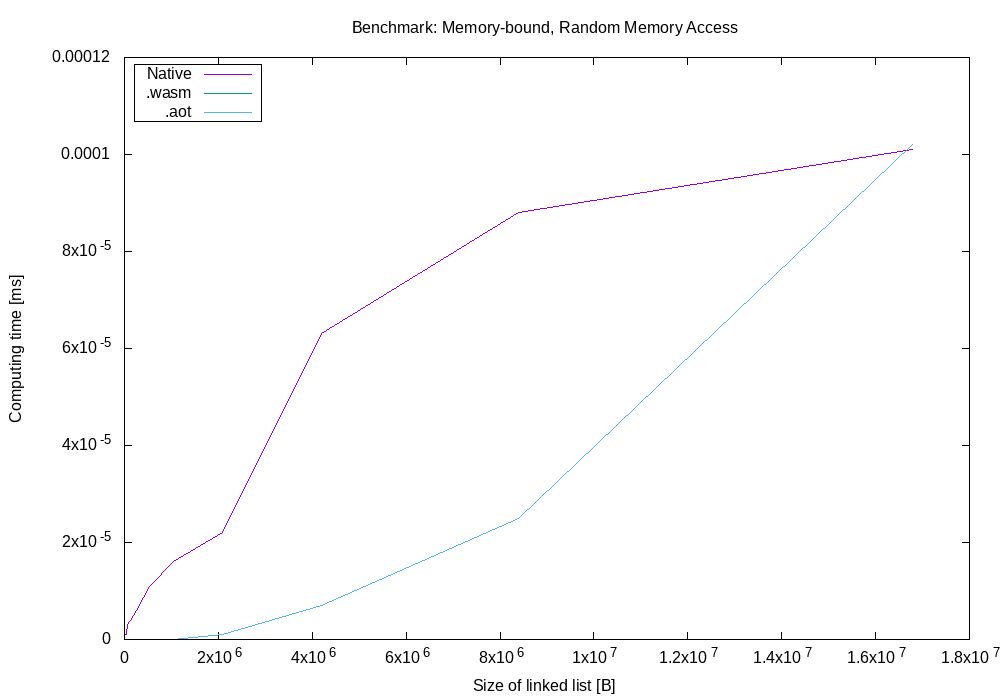
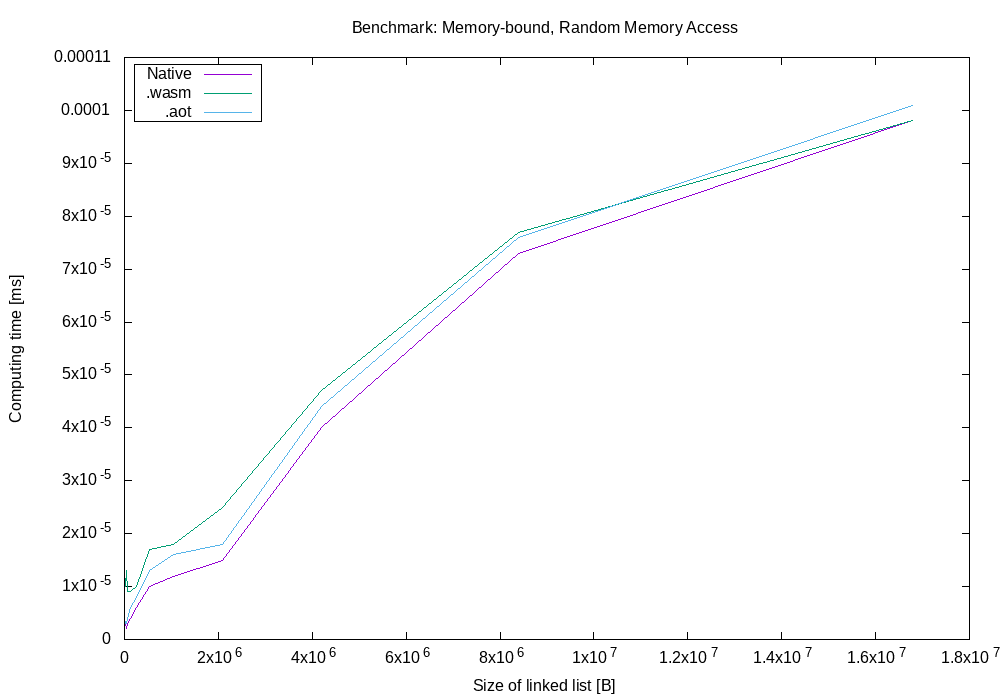
few changes

diff --git a/tests/ram.c b/tests/ram.c
@@ -71,7 +71,7 @@ double bench(Int N, Int iters) {
 	Int dur = clock() - start;
 	double ms = 1e3 * dur / CLOCKS_PER_SEC;
 
-	return ms / (N*iters);
+	return ms / (iters);
 }
 
 
@@ -103,7 +103,7 @@ int main(int argc, const char * argv[]) {
 		//Int reps = elemsPerMeasure / N;
 		Int reps = (Int)floor(1e9 / pow(N, 1.5) + 0.5);
 		if (reps<1) reps = 1;
-		double ans = bench(N,reps);
+		double ans = bench(N,1);
 		printf("%lu   %f   # (N=%lu, reps=%lu) %lu/%lu\n",
 			(long unsigned int) N*sizeof(Node), 
 			ans, 
